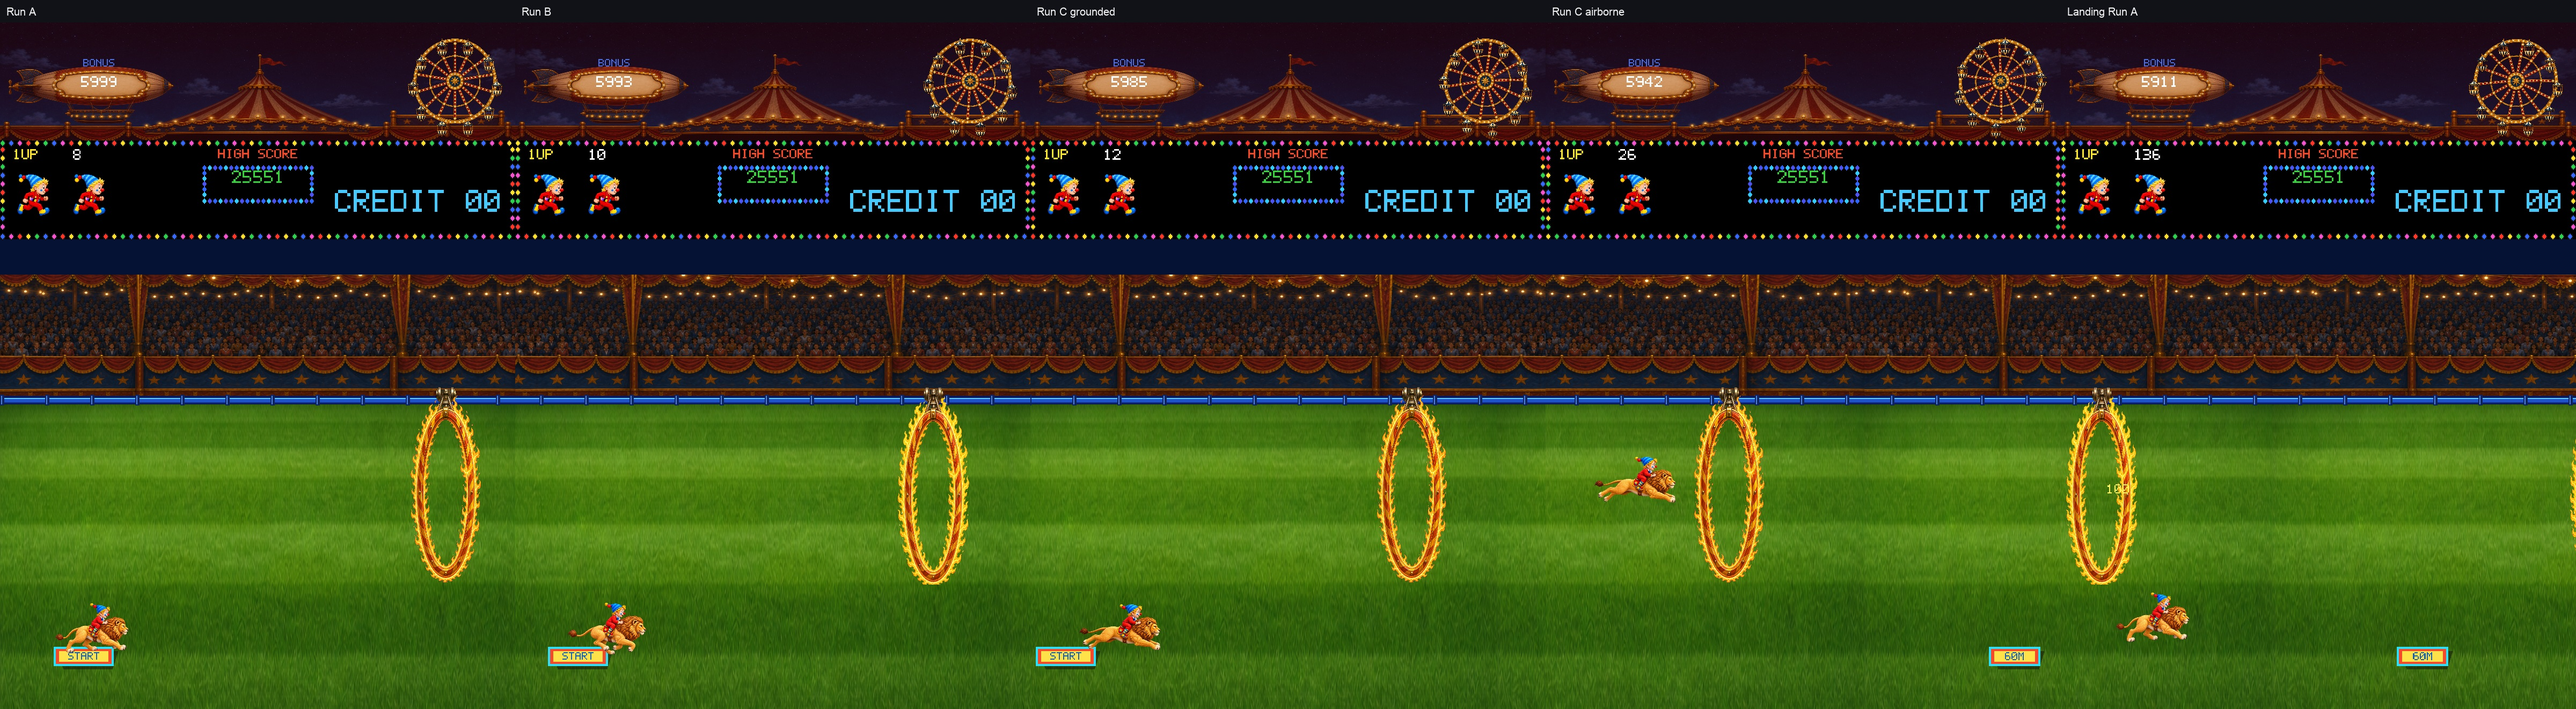
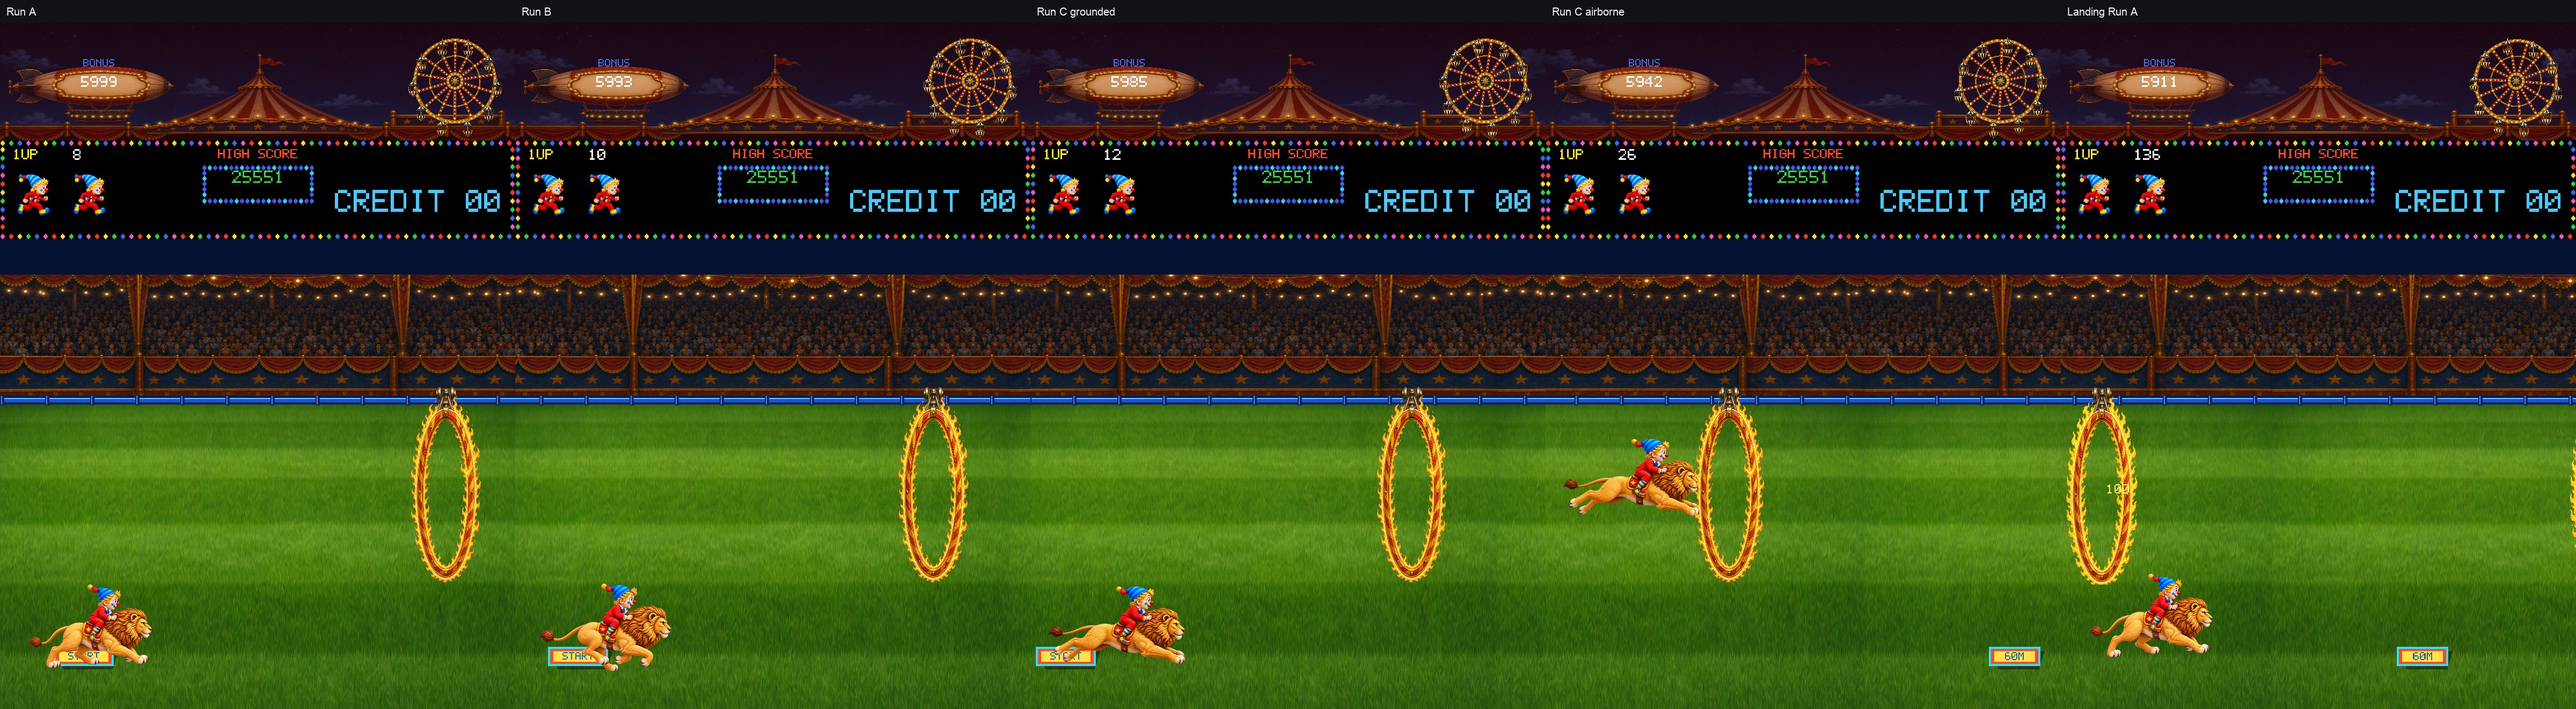
Match Level 1 rider scale to burn animation

diff --git a/tools/prepare_stage1_rider_production.py b/tools/prepare_stage1_rider_production.py
@@ -21,12 +21,12 @@ from PIL import Image, ImageDraw, ImageFilter
 ROOT = Path(__file__).resolve().parents[1]
 OUTPUT = ROOT / "assets"
 DIAGNOSTICS = ROOT / "docs/diagnostics/level1-rider-production"
-CANVAS = (1024, 768)
-GAMEPLAY_ANCHOR = (512, 640)
+CANVAS = (1536, 1024)
+GAMEPLAY_ANCHOR = (768, 714)
 # Stable saddle/central-body point inside the production canvas. The runtime
 # samples every sprite at GAMEPLAY_ANCHOR; keeping this body point at a common
 # canvas location makes the body-to-gameplay-anchor vector identical in A/B/C.
-PRODUCTION_BODY_ANCHOR = (512, 438)
+PRODUCTION_BODY_ANCHOR = (768, 512)
 # Fixed LittleCMS sRGB profile bytes. Creating a fresh profile at runtime puts
 # the current time in its ICC header and makes otherwise identical PNG builds
 # hash differently.
@@ -49,7 +49,7 @@ POSES = {
         "source": ROOT / "run/run a 2.png",
[1 lines of base64/hex data omitted]
         "output": OUTPUT / "stage1-rider-run-a-hd.png",
-        "production_scale": 0.4220552832,
+        "production_scale": 0.713273428608,
         "rotation_degrees": 0.0,
         "source_anchor": (767.5, 582.5),
     },
@@ -57,7 +57,7 @@ POSES = {
         "source": ROOT / "run/Run b 2.png",
[1 lines of base64/hex data omitted]
         "output": OUTPUT / "stage1-rider-run-b-hd.png",
-        "production_scale": 0.4380942671,
+        "production_scale": 0.740379311399,
         "rotation_degrees": 0.0,
         "source_anchor": (777.5, 572.5),
     },
@@ -65,7 +65,7 @@ POSES = {
         "source": ROOT / "run/run c.png",
[1 lines of base64/hex data omitted]
         "output": OUTPUT / "stage1-rider-run-c-hd.png",
-        "production_scale": 0.44947802783109236,
+        "production_scale": 0.7596178670345461,
         "rotation_degrees": 0.0,
         "source_anchor": (850.0, 520.0),
     },
@@ -385,7 +385,7 @@ def main() -> int:
     OUTPUT.mkdir(parents=True, exist_ok=True)
     DIAGNOSTICS.mkdir(parents=True, exist_ok=True)
     raw_features, target_features, effective_scales = feature_measurements()
-    metadata = {"canvas": list(CANVAS), "gameplay_anchor": list(GAMEPLAY_ANCHOR), "production_body_anchor": list(PRODUCTION_BODY_ANCHOR), "body_to_gameplay_anchor_vector": [GAMEPLAY_ANCHOR[0] - PRODUCTION_BODY_ANCHOR[0], GAMEPLAY_ANCHOR[1] - PRODUCTION_BODY_ANCHOR[1]], "production_scale_rule": "A/B unchanged; original Run C uses one Charlie-height-derived offline scale; identical runtime rendering", "effective_source_to_canvas_scales": effective_scales, "alpha_representation": "straight/unassociated RGBA", "color_profile": "embedded sRGB ICC", "poses": {}}
+    metadata = {"canvas": list(CANVAS), "gameplay_anchor": list(GAMEPLAY_ANCHOR), "production_body_anchor": list(PRODUCTION_BODY_ANCHOR), "body_to_gameplay_anchor_vector": [GAMEPLAY_ANCHOR[0] - PRODUCTION_BODY_ANCHOR[0], GAMEPLAY_ANCHOR[1] - PRODUCTION_BODY_ANCHOR[1]], "production_scale_rule": "corrected A/B/C relationship enlarged together by 1.30 twice (1.69 total); identical runtime pixel density", "effective_source_to_canvas_scales": effective_scales, "alpha_representation": "straight/unassociated RGBA", "color_profile": "embedded sRGB ICC", "poses": {}}
     prepared = {}
     for pose, specification in POSES.items():
         source = specification["source"]

diff --git a/src/main.cpp b/src/main.cpp
@@ -3791,14 +3791,24 @@ void drawLionAndRider(SDL_Renderer* renderer, float screenX, float groundY,
                                   ? riderRunB
                                   : riderRunC;
   if (riderTexture) {
-    constexpr float kRenderWidth = 118.8F;
-    constexpr float kRenderHeight = kRenderWidth * 768.0F / 1024.0F;
+    // Production A/B/C use a larger transparent canvas so the corrected
+    // rider/lion set can match the burning composite without cropping Run C.
+    // Pixel density is unchanged; only these three artwork files grow.
+    constexpr float kProductionPixelToWorld = 118.8F / 1024.0F;
+    constexpr float kProductionCanvasWidth = 1536.0F;
+    constexpr float kProductionCanvasHeight = 1024.0F;
+    constexpr float kProductionAnchorX = 768.0F;
+    constexpr float kProductionAnchorY = 714.0F;
+    constexpr float kRenderWidth =
+        kProductionCanvasWidth * kProductionPixelToWorld;
+    constexpr float kRenderHeight =
+        kProductionCanvasHeight * kProductionPixelToWorld;
     const float sourceAnchorX = facingRight
-        ? kLevel1RiderProductionAnchor[0]
-        : 1024.0F - kLevel1RiderProductionAnchor[0];
-    const float visualAnchorX = sourceAnchorX / 1024.0F * kRenderWidth;
+        ? kProductionAnchorX
+        : kProductionCanvasWidth - kProductionAnchorX;
+    const float visualAnchorX = sourceAnchorX * kProductionPixelToWorld;
     const float visualAnchorY =
-        kLevel1RiderProductionAnchor[1] / 768.0F * kRenderHeight;
+        kProductionAnchorY * kProductionPixelToWorld;
     const SDL_FRect destination{screenX + 10.0F - visualAnchorX,
                                 groundY - visualAnchorY,
                                 kRenderWidth, kRenderHeight};
